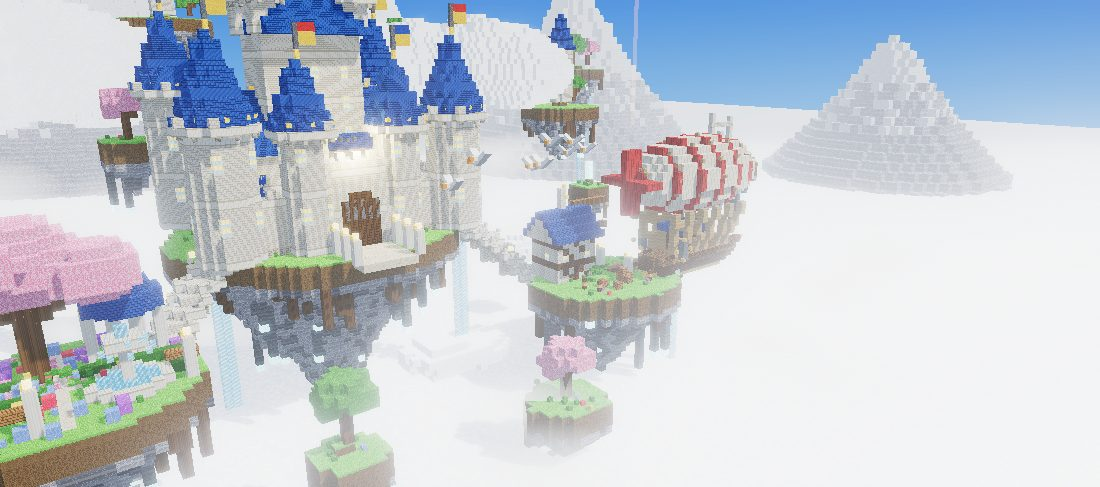
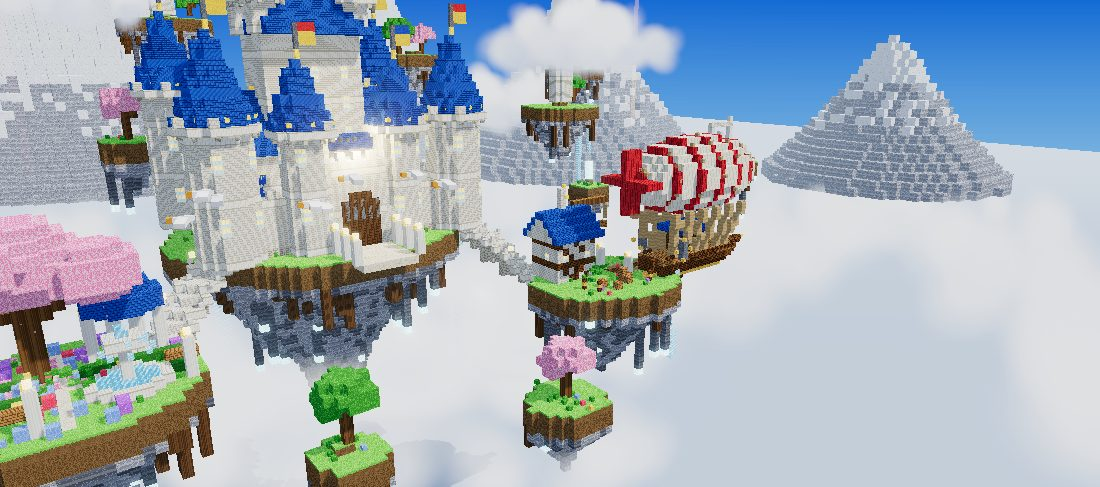
Himmelsburg: Klötzchenwolken entfernt, weiche Haufenwolken und Nebel unter den Inseln; Adler wird beim Hineinfliegen nach und nach verdeckt
Claude-Session: https://claude.ai/code/session_01VyrGtGhpmUQ9uCwobRxi57

diff --git a/lernwelt/welten/himmel.js b/lernwelt/welten/himmel.js
@@ -194,13 +194,6 @@ export function build(A){
   // kleine Inseln nahe am Bild
   for(const [cx,cz,r,y,d] of [[34,62,4,10,"tree"],[60,64,5,8,"tree"],[90,34,3,26,"rock"],[2,30,3,22,"tree"],[26,8,4,36,"tree"],[68,6,4,38,"rock"]]){ island(cx,cz,r,y,{deep:1.1});
     const t=topAt(cx,cz,y+4); if(d==="tree") tree(cx,t+1,cz,4,2.2, rand()<.5?"blossom":"leaves"); else for(let k=1;k<=3;k++) set(cx,t+k,cz,"crystal"); }
-  // Wolkenbänke für den Adler (hinten links und rechts)
-  for(const a0 of [1.18, 1.62]) for(let i=0;i<7;i++){ const a = Math.PI*(a0 + i*.035), rr = 44 + (rand()-.5)*8, cx = 46 + Math.cos(a)*58*rr/44, cz = 24 + Math.sin(a)*rr, cy = 46 + (rand()-.5)*3;
-    ellip(cx, cy, cz, 10+rand()*4, 7+rand()*2, 12+rand()*3, "cloudS"); ellip(cx+(rand()-.5)*8, cy+5, cz+(rand()-.5)*6, 7, 4, 7, "cloudS"); }
-  // kleine Wolkenbausche
-  for(let i=0;i<10;i++){ const cx=rand()*W, cz=rand()*D, cy=6+rand()*12; if(Object.values(S).some(s=>Math.hypot(s.x-cx,s.z-cz)<s.r+5)) continue;
-    for(let k=0;k<3;k++) ellip(cx+(rand()-.5)*8, cy+(rand()-.5)*2, cz+(rand()-.5)*5, 3+rand()*2, 1.6, 2.4, "cloudS"); }
-
   // ---------- Hintergrund: echte schwebende Inseln (normale Blöcke) mit Bäumen, Türmen, Wasserfällen ----------
   const farIsle = (cx,cz,r,y,deco) => { island(cx,cz,r,y,{deep:1.3, bare:true}); const t=topAt(cx,cz,y+4)+1;
     if(deco==="tree"){ tree(cx-1,t,cz,5,3,"leaves"); tree(cx+r*.5,t,cz+1,4,2.4,"blossom"); }
@@ -217,18 +210,30 @@ export function build(A){
     top:(x,z,y,hc)=> y*3 > 36 ? "snowP" : (y*3 > 20 && rand()<.4 ? "snowP" : "rock"), fill:(x,z,y,hc)=> y*3 > 40 ? "snowP" : "rock" });
 
   // ---------- Tiere ----------
-  const creatures = [{ ...eagle(), orbit:{c:[46,46,24], r:[58,44], speed:.09, ph:3.6, bob:2, wander:{f:.27, r:.18, y:6, eight:6, dx:10, dz:10, span:10, clear:5}}, scale:.42, cloudHide:"cloudS" }];
+  const creatures = [{ ...eagle(), orbit:{c:[46,46,24], r:[58,44], speed:.09, ph:3.6, bob:2, wander:{f:.27, r:.18, y:6, eight:6, dx:10, dz:10, span:10, clear:5}}, scale:.42 }];
   for(let i=0;i<9;i++) creatures.push({ ...bird(i%3?0xFFFFFF:0xE8EEF8), orbit:{c:[46+(i%3)*2,34+(i%4),30+(i%2)*3], r:[40,24], speed:.12, ph:i*.1, bob:1}, scale:.5, noShadow:true });
 
   return {
     W, D, blocks, spots:S, exposure:1.1, fov:40,
-    sky:[[0,"#2E7BE8"],[.45,"#7EC0FF"],[.75,"#FFD8C0"],[1,"#FFF2E6"]], fog:[0xE6F0FF, 130, 460],
+    sky:[[0,"#1E62D0"],[.45,"#6AB0FA"],[.72,"#FFD2B4"],[1,"#F4E8E0"]], fog:[0xC8DCF4, 170, 560],
     hemi:[0xDDEBFF, 0x8A9AB0, 1.7], sun:{color:0xFFF4E0, int:2.1, pos:[60,120,90]}, bloom:[.3,.5,.9],
     lights:[{pos:[S.grammar.x,S.grammar.y+14,S.grammar.z+16], color:0xFFE6A8, int:140, dist:34}],
-    planes:[{y:2, tex:T.cloud, repeat:150, size:1100, color:0xFFFFFF, em:.35, anim:[.01,0]}],
-    puffs:[{n:20, pos:[-160,10,-160], dx:400, dy:2, dz:0, s0:30, s1:30, color:0xFFFFFF, opacity:.8, speed:.008, spread:120, flat:.4},
-           {n:26, pos:[-60,3,-40], dx:220, dy:2, dz:0, s0:16, s1:20, color:0xFFFFFF, opacity:.85, speed:.012, spread:60, flat:.45},
-           {n:18, pos:[-60,8,40], dx:220, dy:1, dz:0, s0:12, s1:14, color:0xFFFFFF, opacity:.7, speed:.016, spread:50, flat:.5}],
+    planes:[{y:-30, size:1400, color:0xB8CCE6, em:0}],
+    // unter der Festung: Nebel und ein Wolkenmeer, dazu einige große Haufenwolken mit Detail
+    puffs:[{n:16, pos:[0,-2,10], dx:W, dy:1, dz:0, s0:26, s1:30, color:0xF2F6FC, opacity:.45, speed:.006, spread:26, flat:.35},
+           {n:14, pos:[10,6,D/2], dx:W-20, dy:2, dz:0, s0:14, s1:18, color:0xFFFFFF, opacity:.35, speed:.01, spread:20, flat:.4}],
+    clouds:[
+      // Wolkenmeer weit unten
+      ...[[-160,-14,-120],[-40,-16,-140],[90,-14,-150],[220,-16,-120],[-180,-15,0],[260,-14,10],[-120,-12,110],[200,-12,120],[46,-18,150],[-30,-14,-30],[130,-15,-40]].map(p=>({pos:p, r:46, n:28, sx:1.8, sy:.35, sz:1.4, flat:true, lo:0xC8D6EA, opacity:.95})),
+      // Nebelbänke direkt unter den Inseln
+      ...[[20,-2,30],[70,-3,26],[46,-4,64],[-6,-6,10],[100,-5,0]].map(p=>({pos:p, r:20, n:16, sx:1.6, sy:.35, sz:1.2, flat:true, lo:0xDCE6F4, opacity:.6})),
+      // Haufenwolken mit Detail (in die der Adler hineinfliegen kann)
+      {pos:[-18,44,-8], r:13, n:46, sx:1.5, sy:.8, sz:1.1, drift:.6},
+      {pos:[112,50,8], r:14, n:50, sx:1.6, sy:.85, sz:1.1, drift:.5},
+      {pos:[30,58,-46], r:11, n:38, sx:1.5, sy:.75, sz:1, drift:.4},
+      {pos:[150,30,-80], r:20, n:44, sx:1.7, sy:.8, sz:1.2},
+      {pos:[-90,36,-70], r:18, n:40, sx:1.6, sy:.8, sz:1.2}
+    ],
     particles:[{n:90, area:[S.vocabulary.x-8,S.vocabulary.x+8,S.vocabulary.y+2,S.vocabulary.y+16,S.vocabulary.z-8,S.vocabulary.z+8], vy:-1, wob:1.2, color:0xFFB8D8, size:.35, opacity:.9}],
     creatures,
     home:{pos:[W/2,64,D+96], look:[W/2,28,D/2-6]}, homePortrait:{pos:[W/2,84,D+150], look:[W/2,30,D/2-6]},

diff --git a/lernwelt/welt3d.js b/lernwelt/welt3d.js
@@ -198,6 +198,23 @@ export async function start(o){
       ...(p.square ? {} : {map:softTex}), ...(p.add||p.blink?{blending:THREE.AdditiveBlending}:{}) }));
     scene.add(m); parts.push({p, g, sp, ph, m, n, base});
   }
+  // Echte Wolken: Haufen aus weichen Bällchen (oben hell, unten grau-blau). Sie verdecken Tiere, die hineinfliegen, nach und nach.
+  const cloudParts = [];
+  if(world.clouds){ const ct = (() => { const c=document.createElement("canvas"); c.width=c.height=128; const g=c.getContext("2d");
+      for(let i=0;i<14;i++){ const x=30+api.rand()*68, y=30+api.rand()*68, r=18+api.rand()*26, gr=g.createRadialGradient(x,y,0,x,y,r); gr.addColorStop(0,"rgba(255,255,255,.55)"); gr.addColorStop(.6,"rgba(255,255,255,.25)"); gr.addColorStop(1,"rgba(255,255,255,0)"); g.fillStyle=gr; g.fillRect(0,0,128,128); }
+      const m=g.createRadialGradient(64,64,20,64,64,64); m.addColorStop(0,"rgba(0,0,0,0)"); m.addColorStop(1,"rgba(0,0,0,1)"); g.globalCompositeOperation="destination-out"; g.fillStyle=m; g.fillRect(0,0,128,128);
+      const t=new THREE.CanvasTexture(c); t.colorSpace=THREE.SRGBColorSpace; return t; })();
+    const lo = new THREE.Color(), hi = new THREE.Color(), col = new THREE.Color();
+    for(const cl of world.clouds){ const [cx,cy,cz] = cl.pos, R = cl.r||20, n = Math.round((cl.n||40)*(o.lite?.6:1)), sx = cl.sx||1.6, sy = cl.sy||.7, sz = cl.sz||1;
+      lo.set(cl.lo||0xAFC0DA); hi.set(cl.hi||0xFFFFFF);
+      for(let i=0;i<n;i++){ // Blumenkohl-Form: viele Bällchen in einem abgeflachten Ellipsoid, flache Unterseite
+        let x,y,z; do{ x=api.rand()*2-1; y=api.rand()*2-1; z=api.rand()*2-1; } while(x*x+y*y+z*z>1);
+        y = Math.abs(y)*(cl.flat ? .5 : 1) - (cl.flat ? 0 : .15);
+        const h = Math.max(0, Math.min(1, (y+.15)/1.15)), size = R*(.45+api.rand()*.45)*(1-h*.35);
+        col.copy(lo).lerp(hi, Math.pow(h,.6)*.9+.1);
+        const m = new THREE.SpriteMaterial({map:ct, color:col.clone(), transparent:true, depthWrite:false, opacity:(cl.opacity||.9), fog:true});
+        const sp = new THREE.Sprite(m); sp.position.set(cx+x*R*sx, cy+y*R*sy, cz+z*R*sz); sp.scale.set(size*1.3, size, 1); sp.material.rotation = api.rand()*6.28;
+        sp.renderOrder = 4; scene.add(sp); cloudParts.push({sp, base:sp.position.clone(), drift:cl.drift||0, ph:api.rand()*6}); } } }
   // Vulkanausbruch: in Schüben fliegen glühende Lavabrocken im Bogen aus dem Krater
   const bombs = [];
   if(world.bombs){ const bw = world.bombs, mat = new THREE.MeshBasicMaterial({color:bw.color||0xFFB040}), geo = new THREE.BoxGeometry(1,1,1);
@@ -316,6 +333,7 @@ export async function start(o){
         else b.visible = false; }
       { const s0 = ((tt % P) + P) % P; flash = s0 < 2.2 ? Math.sin(s0/2.2*Math.PI) : 0; }
       if(bombs.light) bombs.light.intensity = bw.light[1]*flash; }
+    for(const c of cloudParts){ if(c.drift){ c.sp.position.x = c.base.x + Math.sin(tt*.02*c.drift + c.ph*.05)*c.drift*6; } }
     for(const r of rays){ r.material.opacity = .08 + .08*Math.sin(now/1500 + r.userData.ph); }
     for(const {b, pivot, m} of beams){ const tb = o.still ? (o.stillTime||12) : (now-clock0)/1000, ph=b.ph||0, sp=b.speed||.25;
       pivot.rotation.z = (b.tilt??.35)*Math.sin(tb*sp+ph); pivot.rotation.x = (b.tilt??.35)*.6*Math.cos(tb*sp*.8+ph); m.material.opacity = (b.opacity||.22)*(.75+.25*Math.sin(tb*1.3+ph*2)); }
